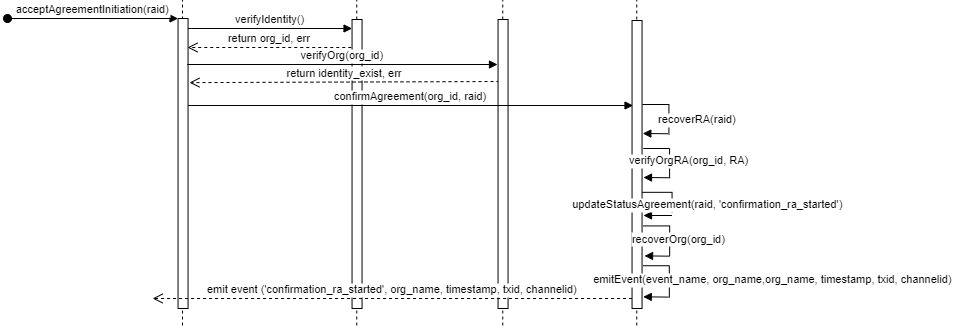
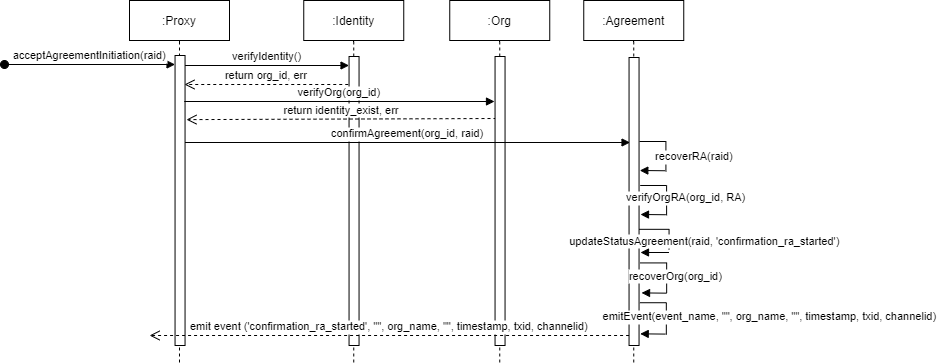
18.08.21.7

diff --git a/chaincode/README.md b/chaincode/README.md
@@ -41,9 +41,11 @@
 |:------------------------:|:----------------------:|:---------------------:|
 |acceptAgreementInitiation |confirmation_ra_started |confirmation_ra_started|
 - For the roaming agreement drafting to be valid, the other MNO must confirm it.
-- Identity is verified.
-- The inputs are `json org` and `RAID`.
-- An event is emitted to set the state `confirmation_ra_started`.
+- Identity is verified at each interaction.
+- The input is `RAID`.
+- The `RAID` is obtained in the frontend.
+- The Roaming Agreement status is set as `confirmation_ra_started`.
+- The `confirmation_ra_started` event is emitted.
 <img src="https://github.com/sfl0r3nz05/NLP-DLT/blob/main/chaincode/design/images/05.png">       
 <img src="https://github.com/sfl0r3nz05/NLP-DLT/blob/main/chaincode/design/images/06.png">
 
